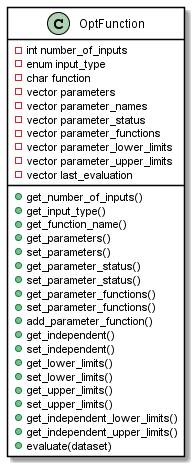
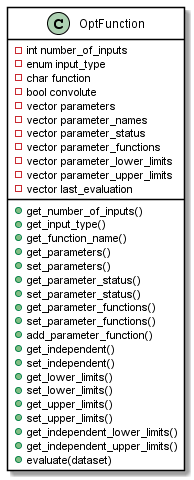
Fixed typos, added note about function convolution
Recorded idea of 'reduced' per-dataset residuals and Jacobia for
optimisers which request these per-observation and where delivering them
for all pixels in the sqw(s) would be bad (too many pixels, too slow
communication from nodes, etc.)

Changed region(s): [[0.0309, 0.0, 0.9588, 0.9914]]

diff --git a/optimisation/design/Model_Optimisation_Design.md b/optimisation/design/Model_Optimisation_Design.md
@@ -92,7 +92,7 @@ By providing the necessary glue to connect user-provided ![S(\mathbb{Q};\mathbf{
 the routine extraction of physically relevant parameters from measured inelastic neutron scattering data.
 
 ## Deliverables
-- New classes `OptModel` and `OptFunction`, detailed below
+- New classes `OptModel`, `OptFunctionsArray`, and `OptFunction`, detailed below
 - Callback function to calculate ![r(\mathbf{p})] for user-provided ![S(\mathbb{Q};\mathbf{p})].
 - Callback function to calculate ![\mathbf{J}(\mathbf{p})] for arbitrary ![f(\mathbf{p})]; including ![r(\mathbf{p})]
 - Framework for interfacing to one or more optimisation libraries implementing:
@@ -213,11 +213,16 @@ The supported function signatures are therefore:
 
 Depending on the language in which `OptFunction` is defined this can be implemented in a variety of ways.
 
+It will be desirable to support convolution of the instrumental resolution with a user provided function using, e.g., `TobyFit`.
+However such a convolution should not be performed indiscriminately for all functions.
+
 The `OptFunction` object must contain properties which are
 
 - the user defined function
 	+ as a string containing its name, a function handle, or a function pointer,
 	depending on implementation language
+- an indication of whether instrumental resolution convolution should be performed
+	+ this might be as simple as a boolean flag or could be a more complicated structure with details for the convolution, *this will be determined later and should not be fixed at this point*
 - the initial (or last used) parameter vector for the model
 - a vector describing which parameters are allowed to be changed or, conversely, which parameters must not be changed
 	+ this could be a logical vector the same size as the parameter vector
@@ -236,7 +241,7 @@ Depending on details of the implementation language additional properties may be
 	
 In C++ both of these can be defined through appropriate usage of templates and the [Function objects library](https://en.cppreference.com/w/cpp/utility/functional).
 In Python the `inspect` module can be used to determine this information.
-In MATLAB it *may* be possible to obtain this information from a function definition through use of [partially-documented meta functions](http://undocumentedmatlab.com/articles/function-definition-meta-info) and, possibly, enforced of the usage of [Function Argument Validation](https://mathworks.com/help/matlab/matlab_prog/function-argument-validation-1.html) but with so much uncertainty this should be left as a stretch goal.
+In MATLAB it *may* be possible to obtain this information from a function definition through use of [partially-documented meta functions](http://undocumentedmatlab.com/articles/function-definition-meta-info) and, possibly, enforced usage of [Function Argument Validation](https://mathworks.com/help/matlab/matlab_prog/function-argument-validation-1.html) in user functions but with so much uncertainty this should be left as a stretch goal.
 
 The `OptFunction` object must  contain methods to:
 
@@ -475,11 +480,7 @@ respectively, can be performed using shape promotion rules.
 
 [\left{\mathbf{m},\mathbf{f},\mathbf{b}\right}]:https://latex.codecogs.com/svg.latex?%5Cleft%5C%7B%5Cmathbf%7Bm%7D%2C%5Cmathbf%7Bf%7D%2C%5Cmathbf%7Bb%7D%5Cright%5C%7D
 
-The distinction between scaling, foreground, and background functions is overkill for simple cases
-but will enable efficient handling of resolution effects (where only the 
-![F_j](https://latex.codecogs.com/svg.latex?F_j)
-
-are convoluted with the instrumental resolution).
+The distinction between scaling, foreground, and background functions is overkill for simple cases but will enable efficient handling of resolution effects (where only the ![F_j](https://latex.codecogs.com/svg.latex?F_j) are convoluted with the instrumental resolution).
 
 The `OptModel` object must contain the following properties:
 
@@ -492,16 +493,22 @@ The `OptModel` object must contain the following properties:
 
 and must have methods which query and update its properties, plus:
 
-- simulate the composite model ![\rho(a, \ldots,\mathbf{p})](https://latex.codecogs.com/svg.latex?%5Crho%28a%2C%20%5Cldots%2C%5Cmathbf%7Bp%7D%29)
+- simulate the composite model ![\rho(a, \ldots,\mathbf{p})]
 - calculate ![r(\mathbf{p})] or the user defined ![f(\mathbf{p})]
-  - *possibly calculate vector ![f_i(\mathbf{p})] to support more back-ends* --
-  	as this requires we store the result for each ![\mathbb{Q}_i] instead of accumulating
-	the memory requirements will tend to be large.
+  - *possibly calculate vector ![f_i(\mathbf{p})] to support more back-ends* -- as this requires we store the result for each ![\mathbb{Q}_i] instead of accumulating 	the memory requirements will tend to be large.
+  - if an optimiser requires ![f_i(\mathbf{p})] but memory requirements (or communication speed in a distributed system) preclude storing this for all ![\mathbb{Q}_i], it might be possible to use a per-dataset reduced ![f_\eta(\mathbf{p})] where ![\eta \in 1,\ldots,M], with ![M \ge N+1] for length-![N] ![\mathbf{p}] and each ![\eta] corresponding to a defined subset of all ![\mathbb{Q}_i]
 - estimate ![\mathbf{J}(\mathbf{p})], when required
   - *possibly calculate the Jacobian in matrix form* which might require too much memory
-- collect the free and independent parameters from all `OptFunctionsArrays` objects into a single reduced parameter vector
-- distribute a modified reduced parameter vector to all `OptFunctionsArrays` objects
+  - a per-dataset reduced Jacobian might also be useful
+- collect the free and independent parameters from all `OptFunctionsArray` objects into a single reduced parameter vector
+- distribute a modified reduced parameter vector to all `OptFunctionsArray` objects
 - run the chosen optimisation back-end
+
+[\rho(a, \ldots,\mathbf{p})]: https://latex.codecogs.com/svg.latex?%5Crho%28a%2C%20%5Cldots%2C%5Cmathbf%7Bp%7D%29
+[f_\eta(\mathbf{p})]: https://latex.codecogs.com/svg.latex?f_%5Ceta%28%5Cmathbf%7Bp%7D%29
+[\eta \in 1,\ldots,M]: https://latex.codecogs.com/svg.latex?%5Ceta%20%5Cin%201%2C%5Cldots%2CM
+[M \ge N+1]: https://latex.codecogs.com/svg.latex?M%20%5Cge%20N&plus;1
+[\eta]: https://latex.codecogs.com/svg.latex?%5Ceta
 
 Storing the optimisation back-end as an `enum` or similar restricts the supported back-ends to a predefined set.
 This restriction may be unnecessary and should be lifted if a clear general back-end interfacing scheme becomes evident
@@ -632,6 +639,7 @@ The advantages and disadvantages of each potential language need to be assessed 
 | C++      | compiled &rarr; functionality constrained &rarr; fully testable | increased distribution complexity                    |
 |          | Python interface via `pybind11` simple                    | MATLAB interface via `mex` less simple                     |
 
+The interpreter issues eluded to above is an uncertainty regarding what happens if an interactive Python interpreter calls a function in the compiled MATLAB/Horace which in turn calls functions in a Python module?
 
 ### Calling Python functions from C++
 
